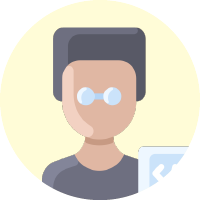
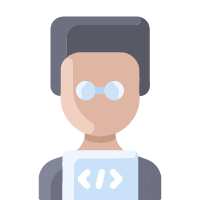
Redesign

diff --git a/templates/runsheet/admin_dashboard_cards.html b/templates/runsheet/admin_dashboard_cards.html
@@ -8,51 +8,36 @@
   <style media="screen">
     .market-update-block {
       padding: 2em 2em;
-      background: #999;
+      background: #fff;
+      border-radius: 10px;
     }
 
     .market-update-block h3 {
-      color: #fff;
+      color: #000;
       font-size: 2.5em;
       font-family: 'Carrois Gothic', sans-serif;
+      font-weight: 600;
     }
 
     .market-update-block h4 {
       font-size: 1.2em;
-      color: #fff;
+      color: #000;
       margin: 0.3em 0em;
       font-family: 'Carrois Gothic', sans-serif;
+      font-weight: 500;
     }
 
     .market-update-block p {
-      color: #fff;
-      font-size: 0.8em;
+      color: #169632;
+      font-size: 0.9em;
       line-height: 1.8em;
+      font-weight: 500;
     }
 
-    .market-update-block.clr-block-1 {
-      background: #ff0000;
+    .market-update-block {
+      background: #fff;
       margin-right: 0.8em;
-      box-shadow: 0 2px 5px 0 rgba(0, 0, 0, 0.16), 0 2px 10px 0 rgba(0, 0, 0, 0.12);
-      transition: 0.5s all;
-      -webkit-transition: 0.5s all;
-      -moz-transition: 0.5s all;
-      -o-transition: 0.5s all;
-    }
-
-    .market-update-block.clr-block-2 {
-      background: #FC8213;
-      margin-right: 0.8em;
-      box-shadow: 0 2px 5px 0 rgba(0, 0, 0, 0.16), 0 2px 10px 0 rgba(0, 0, 0, 0.12);
-      transition: 0.5s all;
-      -webkit-transition: 0.5s all;
-      -moz-transition: 0.5s all;
-      -o-transition: 0.5s all;
-    }
-
-    .market-update-block.clr-block-3 {
-      background: #1355f9;
-      box-shadow: 0 2px 5px 0 rgba(0, 0, 0, 0.16), 0 2px 10px 0 rgba(0, 0, 0, 0.12);
+      box-shadow: 0 2px 5px 0 rgba(0, 0, 0, 0.16);
       transition: 0.5s all;
       -webkit-transition: 0.5s all;
       -moz-transition: 0.5s all;
@@ -85,10 +70,9 @@
 
     .market-update-right i.fa.fa-user-o {
       font-size: 3em;
-      color: #68AE00;
+      color: #3F86F0;
       width: 80px;
       height: 80px;
-      background: #fff;
       text-align: center;
       border-radius: 49px;
       -webkit-border-radius: 49px;
@@ -99,7 +83,7 @@
 
     .market-update-right i.fa.fa-user-md {
       font-size: 3em;
-      color: #FC8213;
+      color: #3F86F0;
       width: 80px;
       height: 80px;
       background: #fff;
@@ -113,7 +97,7 @@
 
     .market-update-right i.fa.fa-calendar {
       font-size: 3em;
-      color: #337AB7;
+      color: #3F86F0;
       width: 80px;
       height: 80px;
       background: #fff;
@@ -178,6 +162,7 @@
     </div>
     <div class="clearfix"> </div>
   </div>
+
 </body>
 
 

diff --git a/templates/runsheet/admin_base.html b/templates/runsheet/admin_base.html
@@ -88,11 +88,8 @@
     }
 
 
-
-
-
     body {
-
+      background-color: #EEF2F6 !important;
       padding-left: 240px;
     }
     main {
@@ -101,7 +98,7 @@
     }
 
     .menu {
-      background: #5bc995;
+      background: #0956CA;
       height: 100vh;
       width: 240px;
       position: fixed;
@@ -119,12 +116,17 @@
       width: 100px;
       border-radius: 50%;
       overflow: hidden;
-      border: 4px solid #ffea92;
+      background: #fff;
+      border: 4px solid #fff;
       box-shadow: 0 0 0 4px rgba(255, 255, 255, 0.2);
     }
     .menu .avatar h2 {
       font-weight: normal;
       margin-bottom: 0;
+      color: #fff;
+    }
+    .menu h6 {
+      color: #fff;
     }
     .menu ul {
       list-style: none;
@@ -132,7 +134,7 @@
       margin: 0;
     }
     .menu ul li {
-      padding: 0.5em 1em 0.5em 3em;
+      padding: 1em 1em 1em 3em;
       font-size: 0.95em;
       font-weight: regular;
       background-repeat: no-repeat;
@@ -155,10 +157,16 @@
     }
 
     .menu ul li:hover {
-      background-color: rgba(0, 0, 0, 0.1);
+      background-color: rgba(63, 134, 240, 1);
     }
     .menu ul li:focus {
       outline: none;
+    }
+    .panel-heading {
+      background-color: #3F86F0 !important;
+    }
+    .label {
+      background: #3F86F0 !important;
     }
     @media screen and (max-width: 900px) and (min-width: 400px) {
       body {
@@ -299,7 +307,7 @@
 
     <!-- nav start -->
     <div class="bs-example">
-      <nav class="navbar navbar-expand-md  navbar-dark fixed-top" style="background:#337AB7;">
+      <nav class="navbar navbar-expand-md  navbar-dark fixed-top" style="background:#0956CA;">
         <a href="/admin-dashboard" class="navbar-brand">Runsheet</a>
         <button type="button" class="navbar-toggler" data-toggle="collapse" data-target="#navbarCollapse">
           <span class="navbar-toggler-icon"></span>
@@ -307,7 +315,7 @@
         <div class="collapse navbar-collapse justify-content-between" id="navbarCollapse">
           <div class="navbar-nav" style=" margin-left: 90%;">
 
-            <a href="/logout" class="nav-item nav-link">Logout</a>
+            <a href="/logout" class="nav-item nav-link" style="color:#fff;">Logout</a>
           </div>
         </div>
       </nav>

diff --git a/static/style.css b/static/style.css
@@ -1,6 +1,6 @@
 body {
-
     padding-left: 240px;
+    background: #EEF2F6;
   }
   main {
     position: relative;
